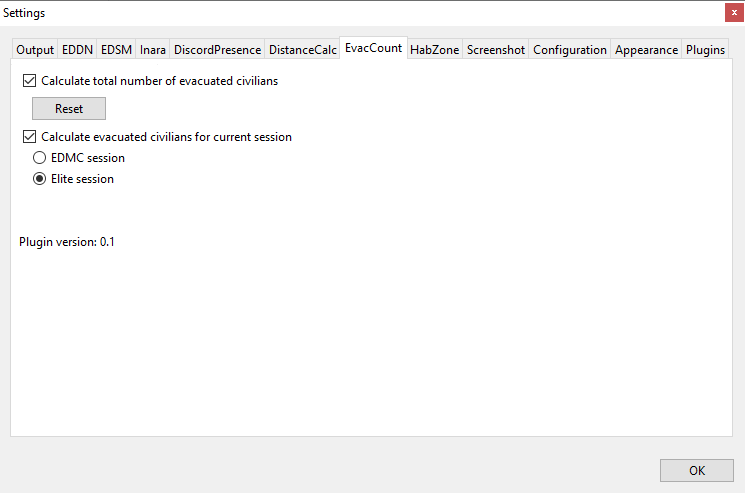
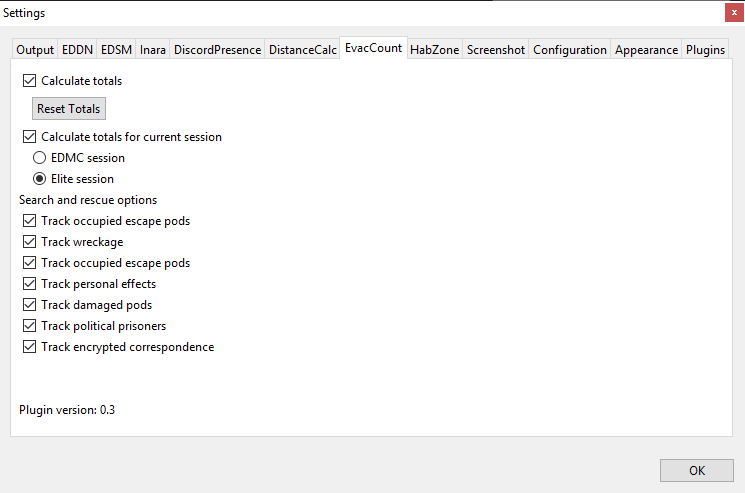
Added the ability to track other search and rescue commodities.
Added the ability to track the delivery of search and rescue commodities.

The settings screen is currently not affecting the displaying of these commodities and totals, but that will hopefully be fixed in v0.3.1

diff --git a/load.py b/load.py
@@ -27,18 +27,20 @@ from l10n import Locale
 
 this = sys.modules[__name__]	# For holding module globals
 
-this.VERSION = "0.2"
+this.VERSION = "0.3"
 this.PADX = 5
 this.WIDTH = 10
 
 def resetTotalEvacuated():
-    config.set("EvacCount_evacuated", 0)
-    this.evacuatedTotal = 0
+    config.set("EvacCount_totals","[0,0,0,0,0,0,0,0]")
+    config.set("EvacCount_missions",json.dumps({}))
+    this.totals = [0,0,0,0,0,0,0,0]
+    this.missions = {}
+    updateCounts()
 
 def plugin_prefs(parent, cmdr, is_beta):
    # Skeletony bits
    this.frame = nb.Frame(parent)
-
    frameTop = nb.Frame(this.frame)
    frameTop.grid(row=0, column=0, sticky=tk.W)
    frameBottom = nb.Frame(this.frame)
@@ -50,13 +52,13 @@ def plugin_prefs(parent, cmdr, is_beta):
    frame = nb.Frame(parent)
 
    # total evac count
-   evacuatedTotal = nb.Checkbutton(frameBottom, variable=evacuatedTotalOption, text="Calculate total number of evacuated civilians")
+   evacuatedTotal = nb.Checkbutton(frameBottom, variable=evacuatedTotalOption, text="Calculate totals")
    evacuatedTotal.var = evacuatedTotalOption
    evacuatedTotal.grid(row=0, column=0, padx=this.PADX * 2, sticky=tk.W)
-   resetButton = nb.Button(frameBottom, text="Reset", command=resetTotalEvacuated)
+   resetButton = nb.Button(frameBottom, text="Reset Totals", command=resetTotalEvacuated)
    resetButton.grid(row=1, column=0, padx=this.PADX * 4, pady=5, sticky=tk.W)
 
-   evacuatedSession = nb.Checkbutton(frameBottom, variable=evacuatedSessionOption, text="Calculate evacuated civilians for current session")
+   evacuatedSession = nb.Checkbutton(frameBottom, variable=evacuatedSessionOption, text="Calculate totals for current session")
    evacuatedSession.var = evacuatedSessionOption
    evacuatedSession.grid(row=2, column=0, padx=this.PADX * 2, sticky=tk.W)
 
@@ -69,11 +71,44 @@ def plugin_prefs(parent, cmdr, is_beta):
    evacuatedSessionElite.var = evacuatedSessionSelected
    evacuatedSessionElite.grid(row=4, column=0, padx=this.PADX * 4, sticky=tk.W)
 
+
+   # Search and Rescue settings
+   #'''# TODO: complete later
+   nb.Label(frameBottom, text="Search and rescue options").grid(row=5, column=0, padx=this.PADX, sticky=tk.W)
+
+   sarBlackBox = nb.Checkbutton(frameBottom, variable=blackBoxOption, text="Track occupied escape pods")
+   sarBlackBox.var = blackBoxOption
+   sarBlackBox.grid(row=6, column=0, padx=this.PADX * 2, sticky=tk.W)
+
+   sarWreckage = nb.Checkbutton(frameBottom, variable=wreckageOption, text="Track wreckage")
+   sarWreckage.var = wreckageOption
+   sarWreckage.grid(row=7, column=0, padx=this.PADX * 2, sticky=tk.W)
+
+   sarEscapePod = nb.Checkbutton(frameBottom, variable=occupiedPodOption, text="Track occupied escape pods")
+   sarEscapePod.var = occupiedPodOption
+   sarEscapePod.grid(row=8, column=0, padx=this.PADX * 2, sticky=tk.W)
+
+   sarPersonalEffects = nb.Checkbutton(frameBottom, variable=personalEffectsOption, text="Track personal effects")
+   sarPersonalEffects.var = personalEffectsOption
+   sarPersonalEffects.grid(row=9, column=0, padx=this.PADX * 2, sticky=tk.W)
+
+   sarDamagedPod = nb.Checkbutton(frameBottom, variable=damagedPodOption, text="Track damaged pods")
+   sarDamagedPod.var = damagedPodOption
+   sarDamagedPod.grid(row=10, column=0, padx=this.PADX * 2, sticky=tk.W)
+
+   sarPrisoners = nb.Checkbutton(frameBottom, variable=prisonersOption, text="Track political prisoners")
+   sarPrisoners.var = prisonersOption
+   sarPrisoners.grid(row=11, column=0, padx=this.PADX * 2, sticky=tk.W)
+
+   sarEncrypted = nb.Checkbutton(frameBottom, variable=correspondenceOption, text="Track encrypted correspondence")
+   sarEncrypted.var = correspondenceOption
+   sarEncrypted.grid(row=12, column=0, padx=this.PADX * 2, sticky=tk.W)
+   #'''
    setStateRadioButtons(evacuatedSessionEdmc, evacuatedSessionElite)
    evacuatedSession.config(command=partial(setStateRadioButtons, evacuatedSessionEdmc, evacuatedSessionElite))
-   nb.Label(frameBottom).grid(row=5)  # spacer
-   nb.Label(frameBottom).grid(row=6)  # spacer
-   nb.Label(frameBottom, text="Plugin version: {0}".format(this.VERSION)).grid(row=7, column=0, padx=this.PADX, sticky=tk.W)
+   nb.Label(frameBottom).grid(row=13)  # spacer
+   nb.Label(frameBottom).grid(row=14)  # spacer
+   nb.Label(frameBottom, text="Plugin version: {0}".format(this.VERSION)).grid(row=15, column=0, padx=this.PADX, sticky=tk.W)
    return this.frame
 
 def setStateRadioButtons(evacuatedSessionEdmc, evacuatedSessionElite):
@@ -88,24 +123,35 @@ def setStateRadioButtons(evacuatedSessionEdmc, evacuatedSessionElite):
 def prefs_changed():
    settings = [this.evacuatedTotalOption.get(), this.evacuatedSessionOption.get(), this.evacuatedSessionSelected.get()]
    config.set("EvacCount_options", json.dumps(settings))
-
+   sarSettings = [this.blackBoxOption.get(), this.wreckageOption.get(), this.occupiedPodOption.get(), this.personalEffectsOption.get(), this.damagedPodOption.get(), this.prisonersOption.get(), this.correspondenceOption.get()]
    updateMainUi()
 
 def updateMainUi():
     # labels for evacation EvacCountSetting
     settingTotal, settingSession, settingSessionOption = getSettingsEvacuated()
-    row = 0
-    for i in range(len(this.evacuatedLabels)):
-        description, evacuated = this.evacuatedLabels[i]
-        if (i == 0 and settingTotal) or (i == 1 and settingSession):
+    sarSettings = getSarSettings
+
+    for row in range(len(this.evacuatedLabels)):
+        description, session, total = this.evacuatedLabels[row]
+        if row == 0:
             description.grid(row=row, column=0, sticky=tk.W)
-            description["text"] = "Evacuated ({0}):".format("total" if i == 0 else "session")
-            evacuated.grid(row=row, column=1, sticky=tk.W)
-            evacuated["text"] = "{0}".format(Locale.stringFromNumber(this.evacuatedTotal, 0) if i == 0 else Locale.stringFromNumber(this.evacuatedSession, 0))
-            row += 1
+            description["text"] = "Item"
+            session.grid(row=row, column=1, sticky=tk.W)
+            session["text"] = "Session"
+            if(settingTotal == 1):
+                total.grid(row=row, column=2, sticky=tk.W)
+                total["text"] = "Total"
         else:
-            description.grid_remove()
-            evacuated.grid_remove()
+            description.grid(row=row, column=0, sticky=tk.W)
+            description["text"] = this.labels[row-1]
+            session.grid(row=row, column=1, sticky=tk.W)
+            session["text"] = this.counts[row-1]
+            if(settingTotal == 1):
+                total.grid(row=row, column=2, sticky=tk.W)
+                total["text"] = this.totals[row-1]
+    #for row in range(len(this.evacuatedLabels)):
+    #    description, session, total = this.evacuatedLabels[row]
+
 
 def plugin_app(parent):
     frame = tk.Frame(parent)
@@ -114,26 +160,36 @@ def plugin_app(parent):
 
     this.status = tk.Label(parent, anchor=tk.W, text="")
     this.evacuatedLabels = list()
-    for i in range(2):
-        this.evacuatedLabels.append((tk.Label(frame), tk.Label(frame)))
+    for i in range(9):
+        this.evacuatedLabels.append((tk.Label(frame), tk.Label(frame), tk.Label(frame)))
 
     updateMainUi()
 
     return (frame)
 
-
+def getSarSettings():
+    sarSettings = json.loads(config.get("EvacCount_sarSettings") or "[1,1,1,1,1,1,1]")
+    return sarSettings
 
 def plugin_start():
-   this.count = json.loads(config.get("EvacCount") or "[]")
+   this.labels = ["Evacuees", "Black Boxes", "Wreckage", "Escape Pods", "Personal Effects", "Damaged Escape Pods", "Political Prisoners", "Encrypted Correspondence"]
+
    this.missions = json.loads(config.get("EvacCount_missions") or "{}")
-   this.evacuatedTotal = config.getint("EvacCount_evacuated") or 0
-   this.passengersOnBoard = config.getint("EvacCount_onBoard") or 0
-   this.evacuatedSession = 0
+   this.totals = json.loads(config.get("EvacCount_totals") or "[0,0,0,0,0,0,0,0]")
+   this.counts = [0,0,0,0,0,0,0,0]
+
    evacuatedTotalOption,evacuatedSessionOption,evacuatedSessionSelected = getSettingsEvacuated()
+   blackBoxOption, wreckageOption, occupiedPodOption, personalEffectsOption, damagedPodOption, prisonersOption, correspondenceOption = getSarSettings()
    this.evacuatedTotalOption = tk.IntVar(value=evacuatedTotalOption and 1)
    this.evacuatedSessionOption = tk.IntVar(value=evacuatedSessionOption and 1)
    this.evacuatedSessionSelected = tk.IntVar(value=evacuatedSessionSelected and 1)
-
+   this.blackBoxOption = tk.IntVar(value=blackBoxOption and 1)
+   this.wreckageOption = tk.IntVar(value=wreckageOption and 1)
+   this.occupiedPodOption = tk.IntVar(value=occupiedPodOption and 1)
+   this.personalEffectsOption = tk.IntVar(value=personalEffectsOption and 1)
+   this.damagedPodOption = tk.IntVar(value=damagedPodOption and 1)
+   this.prisonersOption = tk.IntVar(value=prisonersOption and 1)
+   this.correspondenceOption = tk.IntVar(value=correspondenceOption and 1)
    return "EvacCount"
 
 def getSettingsEvacuated():
@@ -144,27 +200,69 @@ def getSettingsEvacuated():
     return settingTotal, settingSession, settingSettingOption
 
 def updateCounts():
-    _, evacuated = this.evacuatedLabels[0]
-    evacuated["text"] = "{0}".format(Locale.stringFromNumber(this.evacuatedTotal, 0))
-    _, evacuated = this.evacuatedLabels[1]
-    evacuated["text"] = "{0}".format(Locale.stringFromNumber(this.evacuatedSession, 0))
+    for i in range(1,len(this.evacuatedLabels)):
+        item,session, total = this.evacuatedLabels[i]
+        session["text"] = "{0}".format(Locale.stringFromNumber(counts[i-1],0))
+        total["text"] = "{0}".format(Locale.stringFromNumber(totals[i-1],0))
+
 
 def journal_entry(cmdr, system, station, entry, state):
     if entry["event"] == "MissionAccepted" and entry["Name"] == "Mission_DS_PassengerBulk":
         #Figure out how we pick up passengers
         this.missions[entry["MissionID"]] = entry["PassengerCount"]
         config.set("EvacCount_missions", json.dumps(this.missions))
-    elif entry["event"] == "SearchAndRescue" and (entry["Name"] == "occupiedcryopod" or entry["Name"] == "damagedescapepod"):
-        this.evacuatedSession += entry["Count"] # Get correct ammount
-        this.evacuatedTotal += entry["Count"] # Get correct ammount
-        config.set("EvacCount_evacuated", int(this.evacuatedTotal))
-        updateCounts()
+        print "Picked up", str(entry["PassengerCount"]), "passengers."
     elif entry["event"] == "MissionCompleted" and entry["Name"] == "Mission_DS_PassengerBulk_name":
-        this.evacuatedSession += this.missions[entry["MissionID"]] # Get correct ammount
-        this.evacuatedTotal += this.missions[entry["MissionID"]] # Get correct ammount
-        config.set("EvacCount_evacuated", int(this.evacuatedTotal))
-        del this.missions[entry["MissionID"]]
+        try:
+            print "Just got", str(this.missions[entry["MissionID"]]),"passengers."
+            this.counts[0] += this.missions[entry["MissionID"]] # Get correct ammount
+            this.totals[0] += this.missions[entry["MissionID"]] # Get correct ammount
+            config.set("EvacCount_totals", json.dumps(this.totals))
+
+            del this.missions[entry["MissionID"]]
+        except KeyError:
+            print "You appear to have tried to hand in a mission which this plugin didn't know about"
         config.set("EvacCount_missions", json.dumps(this.missions))
         updateCounts()
-    elif entry["event"] == "LoadGame" and this.evacuatedSessionOption.get() and this.evacuatedSessionSelected.get():
-        this.evacuatedSession = 0
+    elif entry["event"] == "SearchAndRescue" and entry["Name"] == "usscargoblackbox":
+        this.counts[1] += entry["Count"] # Get correct ammount
+        this.totals[1] += entry["Count"] # Get correct ammount
+        config.set("EvacCount_totals", json.dumps(this.totals))
+        print "Just got", str(entry["Count"]),"escape pods."
+        updateCounts()
+    elif entry["event"] == "SearchAndRescue" and entry["Name"] == "wreckagecomponents":
+        this.counts[2] += entry["Count"] # Get correct ammount
+        this.totals[2] += entry["Count"] # Get correct ammount
+        config.set("EvacCount_totals", json.dumps(this.totals))
+        print "Just got", str(entry["Count"]),"wreckage components."
+        updateCounts()
+    elif entry["event"] == "SearchAndRescue" and entry["Name"] == "occupiedcryopod":
+        this.counts[3] += entry["Count"] # Get correct ammount
+        this.totals[3] += entry["Count"] # Get correct ammount
+        config.set("EvacCount_totals", json.dumps(this.totals))
+        print "Just got", str(entry["Count"]),"escape pods."
+        updateCounts()
+    elif entry["event"] == "SearchAndRescue" and entry["Name"] == "personaleffects":
+        this.counts[4] += entry["Count"] # Get correct ammount
+        this.totals[4] += entry["Count"] # Get correct ammount
+        config.set("EvacCount_totals", json.dumps(this.totals))
+        print "Just got", str(entry["Count"]),"personal effects."
+        updateCounts()
+    elif entry["event"] == "SearchAndRescue" and entry["Name"] == "damagedescapepod":
+        this.counts[5] += entry["Count"] # Get correct ammount
+        this.totals[5] += entry["Count"] # Get correct ammount
+        config.set("EvacCount_totals", json.dumps(this.totals))
+        print "Just got", str(entry["Count"]),"damaged pods."
+        updateCounts()
+    elif entry["event"] == "SearchAndRescue" and entry["Name"] == "politicalprisoner":
+        this.counts[6] += entry["Count"] # Get correct ammount
+        this.totals[6] += entry["Count"] # Get correct ammount
+        config.set("EvacCount_totals", json.dumps(this.totals))
+        print "Just got", str(entry["Count"]),"political prisoners."
+        updateCounts()
+    elif entry["event"] == "CollectCargo" and entry["Name"] == "encryptedcorrespondence":
+        this.counts[6] += entry["Count"] # Get correct ammount
+        this.totals[6] += entry["Count"] # Get correct ammount
+        config.set("EvacCount_totals", json.dumps(this.totals))
+        print "Just got", str(entry["Count"]),"encrupted correspondence."
+        updateCounts()
